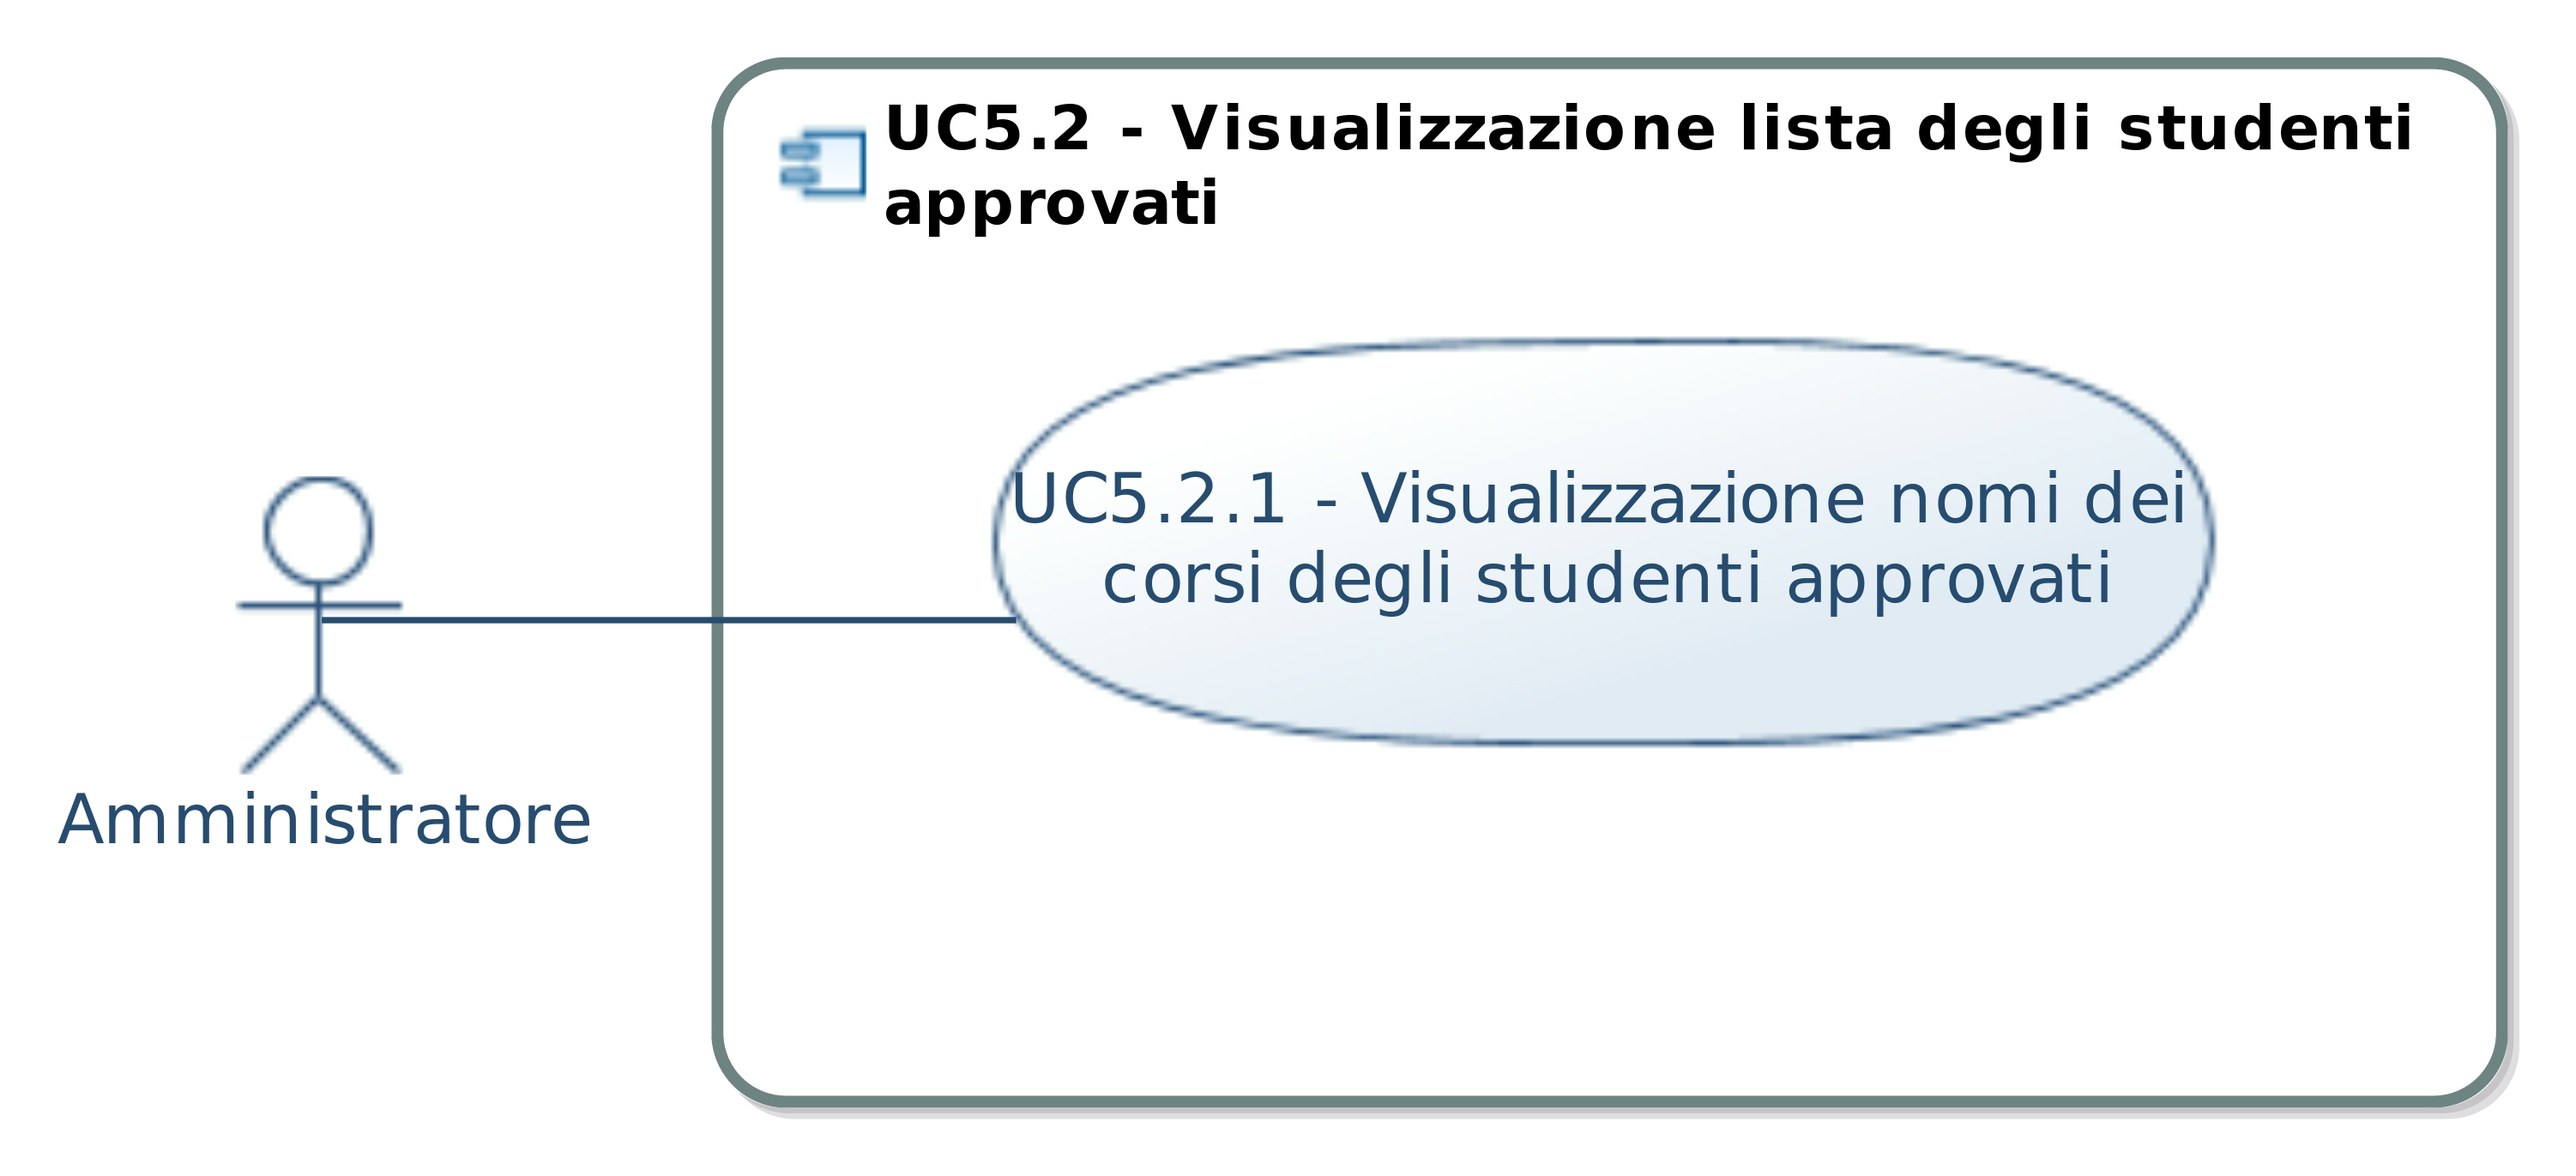
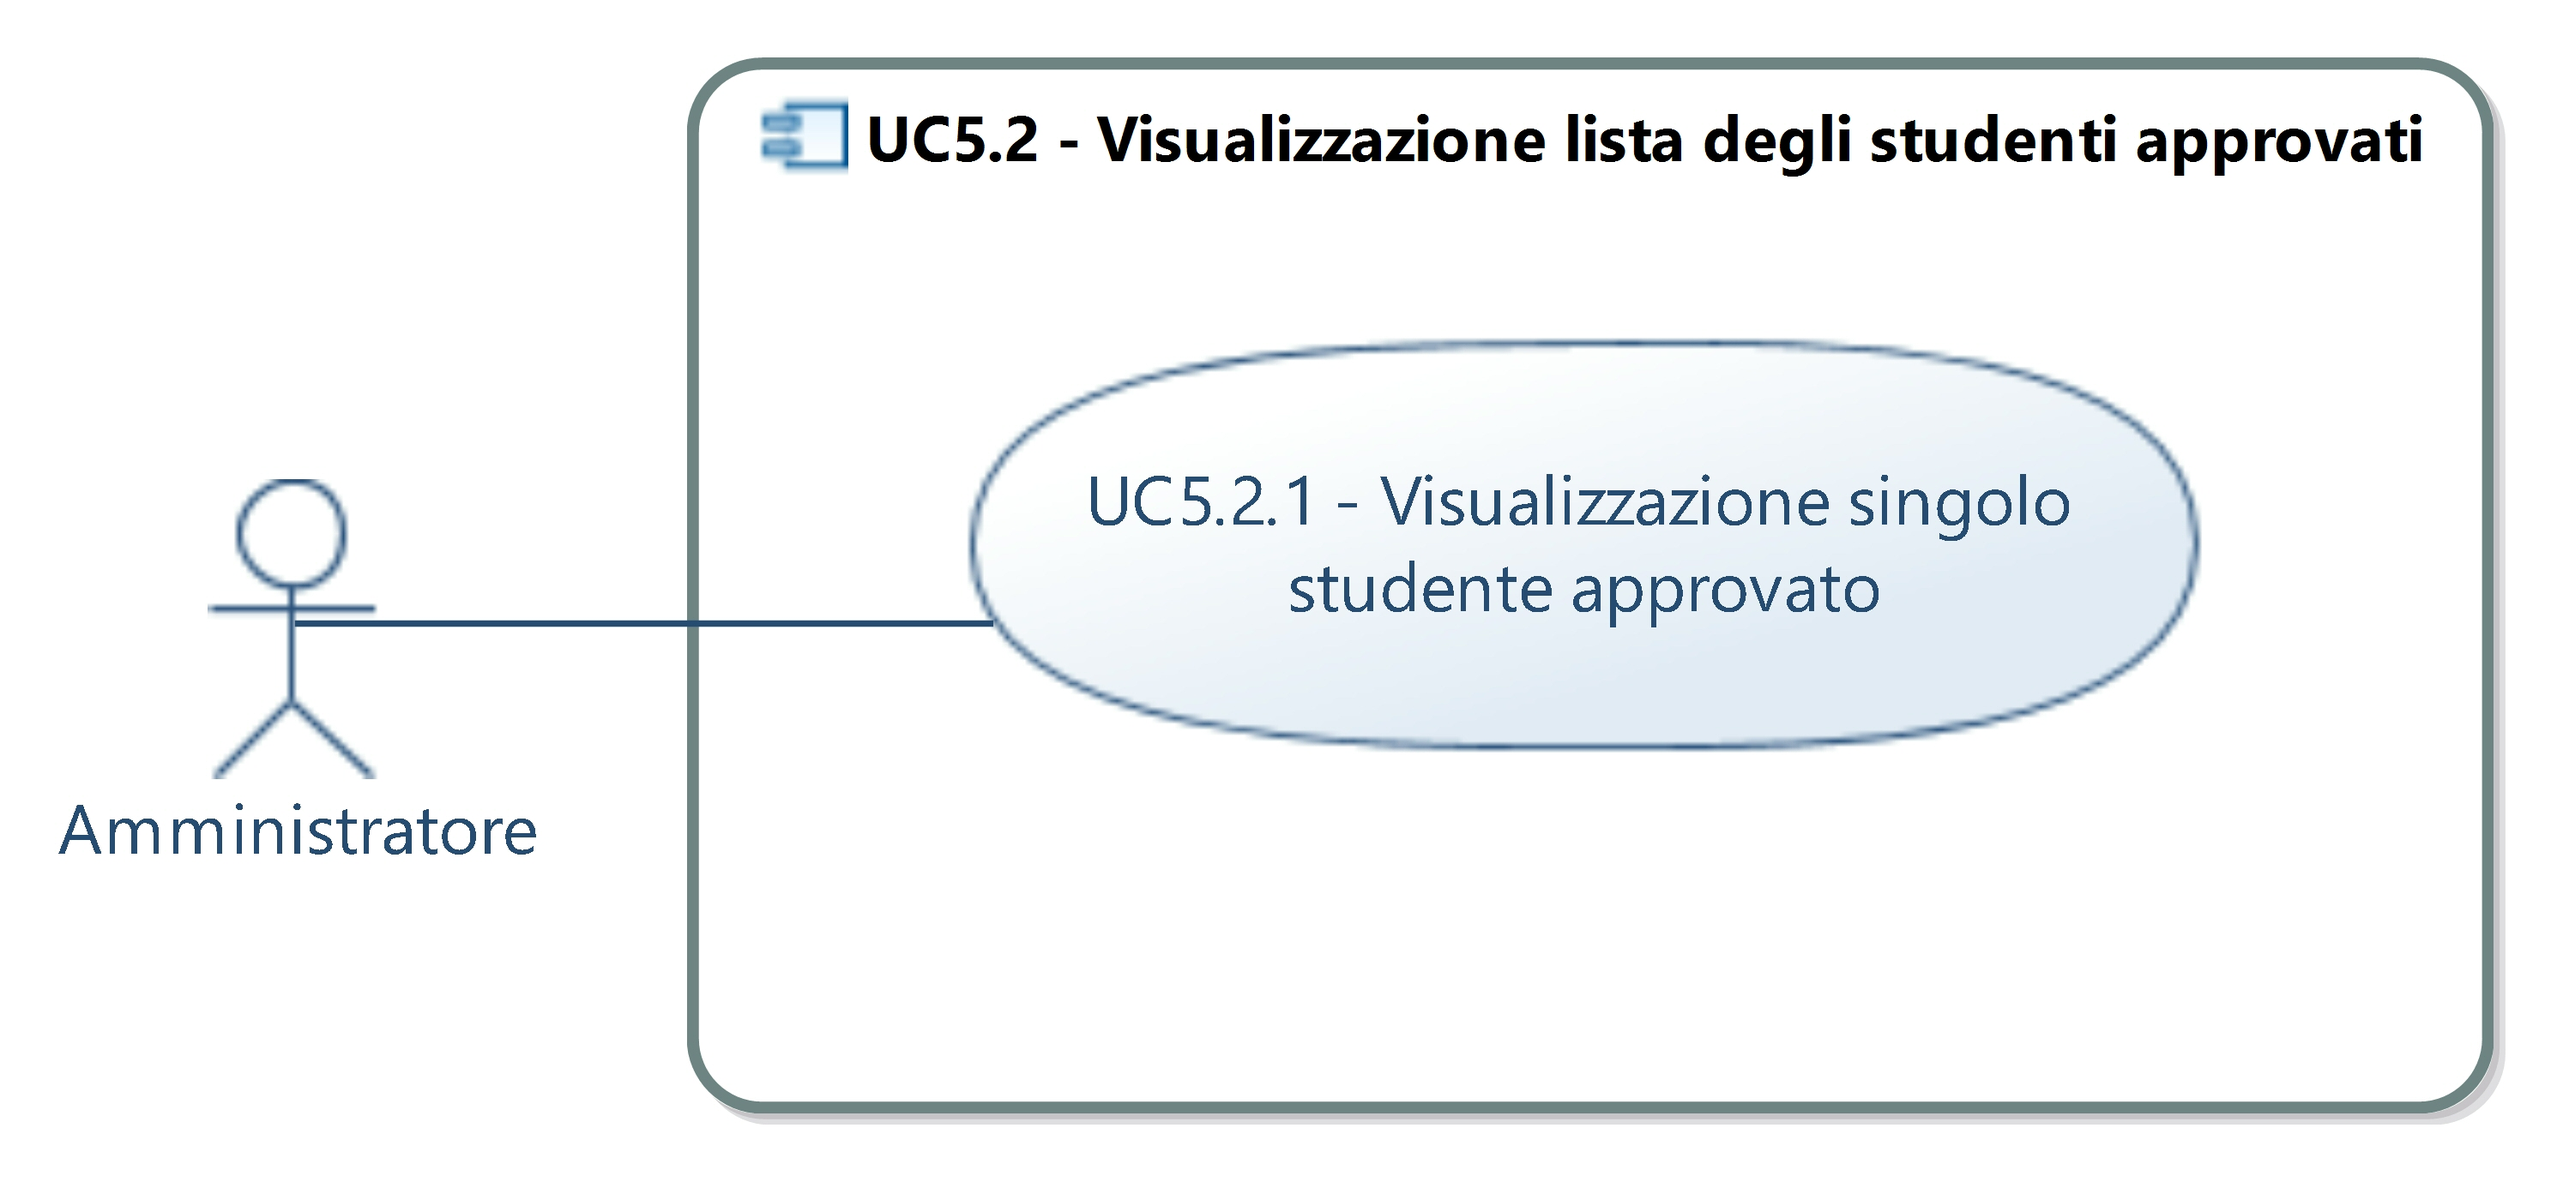
Corrette immagini UC5.X

diff --git a/Esterni/AnalisiDeiRequisiti/CasiDUso.tex b/Esterni/AnalisiDeiRequisiti/CasiDUso.tex
@@ -338,7 +338,12 @@ Ogni scenario possibile per un attore è disponibile anche ai suoi derivati.
 \item \textbf{Scenario principale:} l'amministratore richiede al sistema le informazioni basilari di un utente per poterle visualizzare ed eventualmente compiere altre operazioni su di esso;	\item \textbf{Precondizione:} il sistema riconosce l'utente nel ruolo di amministratore e riceve la richiesta di visualizzazione di un utente aprovato;
 \item \textbf{Postcondizione:} il sistema offre all'amministratore le informazioni basilari dell'utente indicato.
 \end{itemize}
-%TODO immagine
+\begin{figure}[H]
+\centering
+\includegraphics[width=0.9\linewidth]{UC5_1_1.jpg}
+\caption{UC5.1.1 - Visualizzazione singolo utente approvato}
+\label{fig:UC5.1.1 - Visualizzazione singolo utente approvato}
+\end{figure}
 \subsection{UC5.1.1.1 - Visualizzazione indirizzo dell'utente approvato}
 \begin{itemize}
 	\item \textbf{Attori primari:} amministratore;
@@ -386,7 +391,12 @@ Ogni scenario possibile per un attore è disponibile anche ai suoi derivati.
 	\item \textbf{Scenario principale:} l'amministratore richiede al sistema le informazioni basilari di un studente per poterle visualizzare ed eventualmente compiere altre operazioni su di esso;	\item \textbf{Precondizione:} il sistema riconosce l'studente nel ruolo di amministratore e riceve la richiesta di visualizzazione di un studente aprovato;
 	\item \textbf{Postcondizione:} il sistema offre all'amministratore le informazioni basilari dell'studente indicato.
 \end{itemize}
-%TODO immagine
+\begin{figure}[H]
+\centering
+\includegraphics[width=0.9\linewidth]{UC5_2_1.jpg}
+\caption{UC5.2.1 - Visualizzazione singolo studente approvato}
+\label{fig:UC5.2.1 - Visualizzazione singolo studente approvato}
+\end{figure}
 \subsection{UC5.2.1.1 - Visualizzazione nome del corsi di uno studenti approvati}
 \begin{itemize}
 	\item \textbf{Attori primari:} amministratore;
@@ -404,7 +414,12 @@ Ogni scenario possibile per un attore è disponibile anche ai suoi derivati.
 	\item \textbf{Precondizione:} il sistema riconosce l'utente nel ruolo di amministratore; 
 	\item \textbf{Postcondizione:} il sistema offre all'amministratore la lista dei professori approvati.
 \end{itemize}
-%TODO immagine
+\begin{figure}[H]
+\centering
+\includegraphics[width=0.9\linewidth]{UC5_3.jpg}
+\caption{UC5.3 - Visualizzazione lista dei professori approvati}
+\label{fig:UC5.3 - Visualizzazione lista dei professori approvati}
+\end{figure}
 \subsection{UC5.3.1 - Visualizzazione singolo professore approvato}
 \begin{itemize}
 	\item \textbf{Attori primari:} amministratore;
@@ -433,8 +448,13 @@ Ogni scenario possibile per un attore è disponibile anche ai suoi derivati.
 	\item \textbf{Scenario principale:} l'amministratore richiede al sistema le informazioni basilari di un utente in attesa di abilitazione per poterle visualizzare ed eventualmente compiere altre operazioni su di esso;
 	\item \textbf{Precondizione:} il sistema riconosce l'professore nel ruolo di amministratore e riceve la richiesta di visualizzazione di un utente in attesa di abilitazione;
 	\item \textbf{Postcondizione:} il sistema offre all'amministratore le informazioni basilari riguardanti l'utente in attesa di abilitazione.
-	\end{itemize}
-%TODO immagine
+\end{itemize}
+\begin{figure}[H]
+\centering
+\includegraphics[width=0.8\linewidth]{UC5_4_1.jpg}
+\caption{UC5.4.1 - Visualizzazione singolo utente in attesa di abilitazione}
+\label{fig:UC5.4.1 - Visualizzazione singolo utente in attesa di abilitazione}
+\end{figure}
 \subsection{UC5.4.1.1 - Visualizzazione indirizzo di un utente in attesa di abilitazione}
 \begin{itemize}
 	\item \textbf{Attori primari:} amministratore;

diff --git a/Esterni/AnalisiDeiRequisiti/diariomodifiche.tex b/Esterni/AnalisiDeiRequisiti/diariomodifiche.tex
@@ -38,11 +38,6 @@
 	{\alista}
 	
 	% MANCANO IMMAGINI + FIX IMMAGINI:
-	% 5.1
-	% 5.2
-	% 5.3
-	% 5.4
-	
 	% 6.2
 	
 	% 7.2
@@ -59,6 +54,10 @@
 	% 10.2
 	
 	% FATTI:
+	% 5.1
+	% 5.2
+	% 5.3
+	% 5.4
 	
 	\nModifica{3.0.0}
 	{\nData{26}{03}{2018}}
